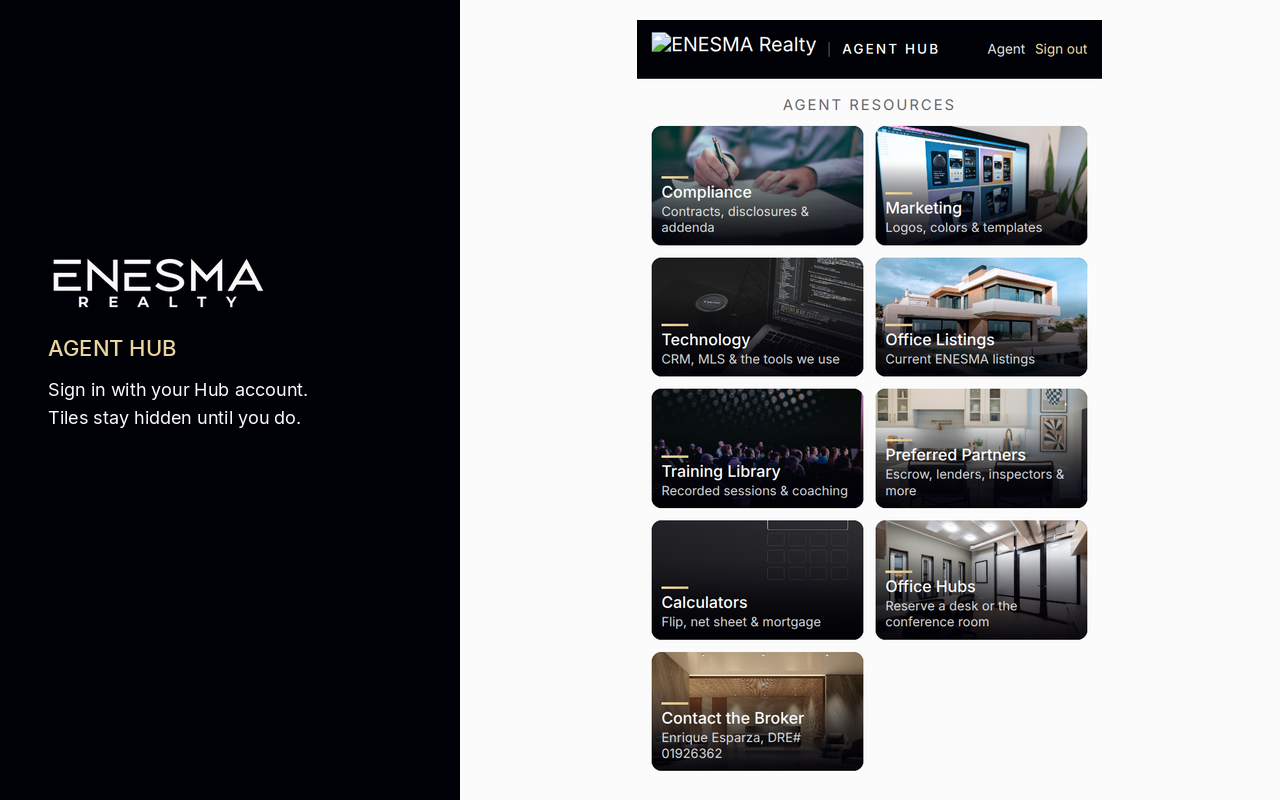
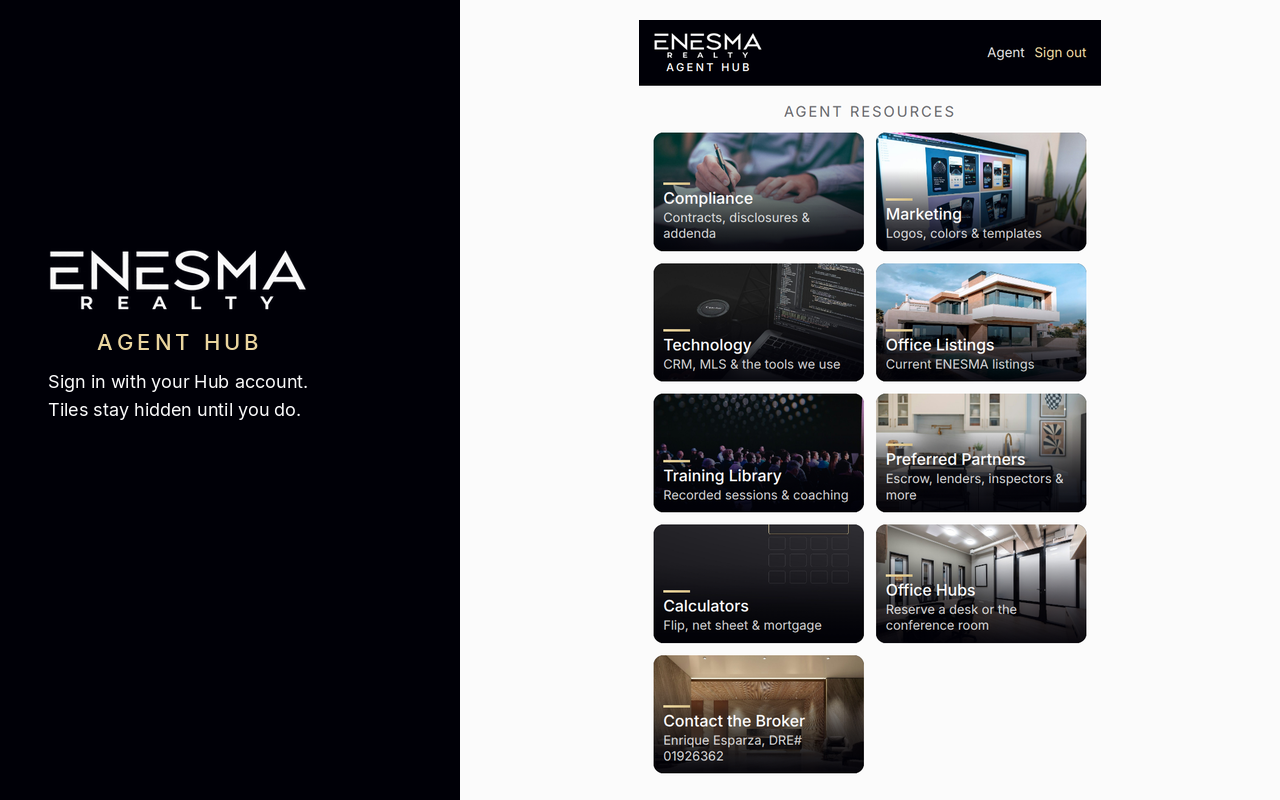
Center AGENT HUB on the ENESMA REALTY wordmark.
The label sits under the wordmark, aligned to the logo ink rather than the image box. The full wordmark replaces the emblem on the popup, store images, privacy page, and 128 icon. Toolbar icons at 16, 32, and 48 stay the emblem.

Changed region(s): [[0.5, 0.0312, 0.875, 0.9688], [0.0312, 0.3125, 0.25, 0.5312]]

diff --git a/privacy-extension.html b/privacy-extension.html
@@ -7,9 +7,17 @@
 <link rel="icon" type="image/png" href="favicon-32.png">
 <style>
   body { margin: 0; background: #000007; color: #FBFBFB; font: 16px/1.5 Inter, "Helvetica Neue", Helvetica, Arial, sans-serif; }
-  header { display: flex; align-items: center; gap: 14px; padding: 16px 28px; }
-  header img { height: 42px; width: auto; }
-  header span { font-size: 13px; letter-spacing: .16em; border-left: 1px solid rgba(251,251,251,.28); padding-left: 14px; }
+  header { padding: 18px 28px 16px; }
+  .brand { display: flex; flex-direction: column; align-items: center; width: max-content; }
+  .brand img { height: 42px; width: auto; }
+  .brand span {
+    margin-top: 6px;
+    font-size: 12px;
+    letter-spacing: .22em;
+    font-weight: 500;
+    line-height: 1;
+    margin-right: -.22em;
+  }
   main { width: min(680px, calc(100% - 40px)); margin: 28px auto 72px; background: #FBFBFB; color: #000007; border-radius: 14px; padding: 32px 28px; }
   h1 { font-size: 28px; font-weight: 500; margin: 0 0 12px; }
   h2 { font-size: 18px; font-weight: 500; margin: 28px 0 8px; }
@@ -19,8 +27,10 @@
 </head>
 <body>
 <header>
-  <img src="assets/logo-white.png" alt="ENESMA Realty">
-  <span>AGENT HUB</span>
+  <div class="brand">
+    <img src="extension/assets/logo-white.png" alt="ENESMA Realty">
+    <span>AGENT HUB</span>
+  </div>
 </header>
 <main>
   <h1>ENESMA AGENT HUB for Chrome</h1>

diff --git a/extension/popup.css b/extension/popup.css
@@ -29,15 +29,23 @@ img { display: block; max-width: 100%; }
   top: 0;
   z-index: 2;
 }
-.top img { height: 28px; width: auto; max-width: none; flex: 0 0 auto; }
-.hub-label {
+.brand {
+  display: flex;
+  flex-direction: column;
+  align-items: center;
   flex: 0 0 auto;
-  font-size: 11px;
-  letter-spacing: .16em;
+}
+.brand img { height: 22px; width: auto; max-width: none; }
+.hub-label {
+  margin-top: 3px;
+  font-size: 9px;
+  letter-spacing: .22em;
   font-weight: 500;
-  border-left: 1px solid rgba(251, 251, 251, .28);
-  padding-left: 10px;
-  line-height: 1.1;
+  line-height: 1;
+  /* Letter-spacing adds space after the last glyph. The matching
+     negative margin puts the ink, not the spacing box, on the wordmark center. */
+  margin-right: -.22em;
+  color: var(--white);
 }
 .who { margin-left: auto; display: flex; align-items: center; justify-content: flex-end; gap: 8px; min-width: 0; flex: 1 1 auto; }
 .user-chip {

diff --git a/extension/view.js b/extension/view.js
@@ -8,8 +8,10 @@ function esc(s) {
 
 function header(extra) {
   return '<header class="top">' +
+    '<div class="brand">' +
     '<img src="assets/logo-white.png" alt="ENESMA Realty">' +
     '<span class="hub-label">AGENT HUB</span>' +
+    '</div>' +
     (extra || '') +
     '</header>';
 }
